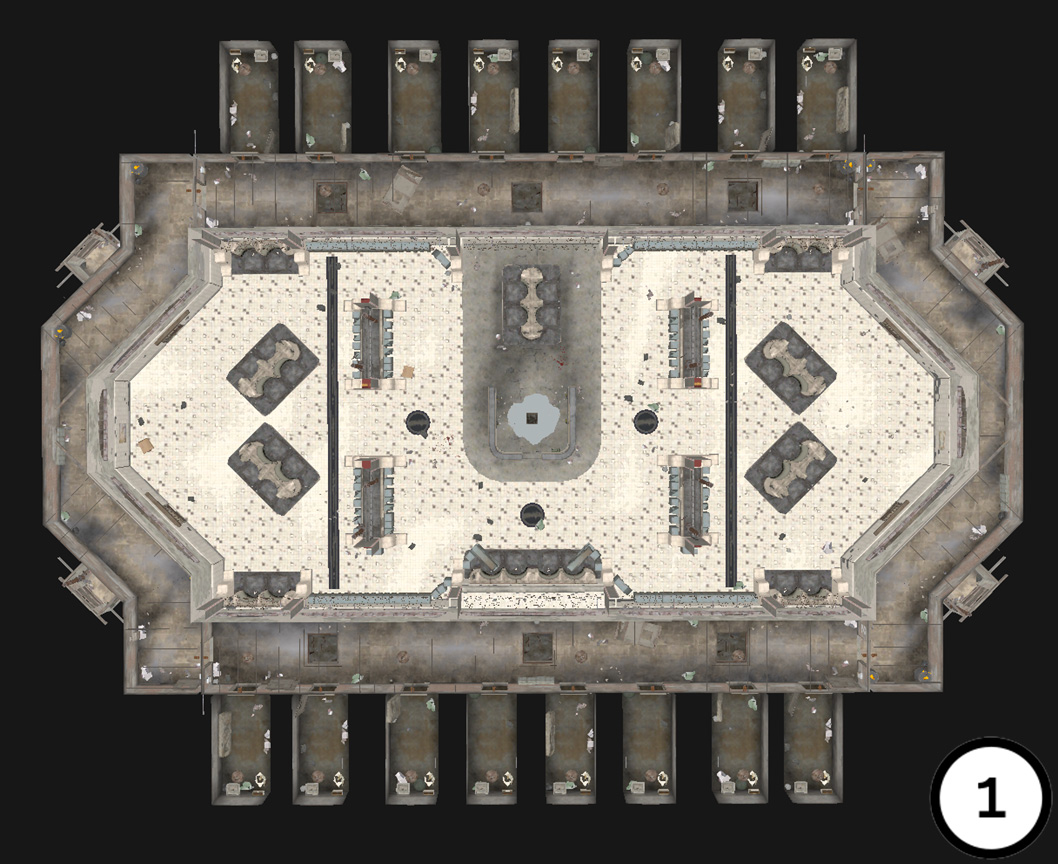
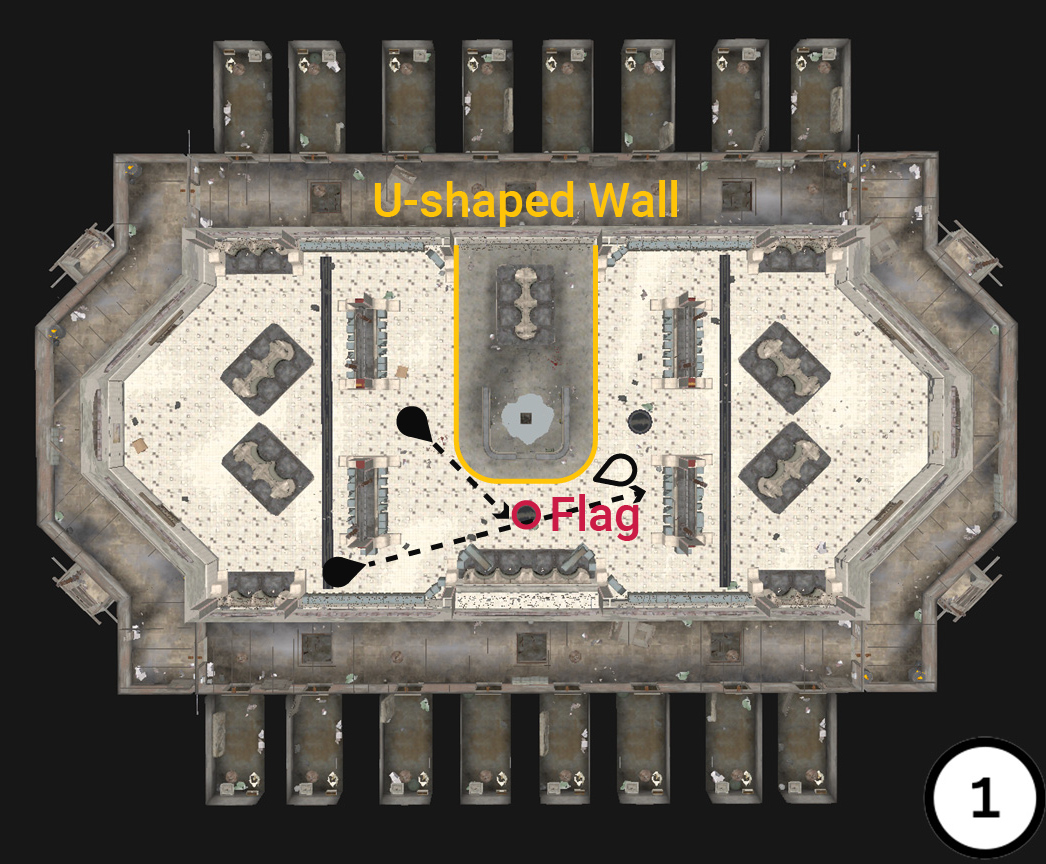
1.14 Minor Update
Updated the fps combat zone page.

diff --git a/levels/combat-zone.html b/levels/combat-zone.html
@@ -33,13 +33,12 @@
       <div class="top-title">FPS Combat Zone (WIP)</div>
       <div class="top-introduction">
         Designing an engaging multiplayer FPS combat experience has alway been a
-        very interesting topic to me. This page covers some of my thoughts and
-        experiments of designing small-scale (preferably 1v1 and 2v2)
-        multiplayer combat zones.
+        very interesting topic to me. This page covers the process of designing
+        both a symmetrical and an asymmetrical 1v1 FPS combat level.
       </div>
       <div class="top-information">
         <span style="color: var(--ro)">time</span> winter 2020 <br />
-        <span style="color: var(--ro)">length</span> 2 minutes <br />
+        <span style="color: var(--ro)">length</span> 1 minute <br />
         <span style="color: var(--ro)">software</span> Unreal Engine 4, Maya,
         Illustrator
         <br />
@@ -50,25 +49,25 @@
     <div id="main">
       <div class="main-title">Inspiration</div>
       <div class="main-description">
-        I was spending quite a bit time in my summer 2020 vacation watching some
-        top streamers on Twitch playing Call of Duty: Warzone (battle royale).
-        Among many interesting game mechanics, the desperate 1v1 gunfight in a
-        fictional gulag attracts me most for its dramatically fast-paced combat
-        and the cruel rule that only the winner can step back into the
-        battlefield again.
+        I was spending quite a bit time during my summer and winter 2020
+        vacations watching some top streamers on Twitch playing Call of Duty:
+        Warzone (battle royale). Among many interesting game mechanics, the
+        desperate 1v1 gunfight in a fictional gulag attracted me most for its
+        dramatically fast-paced combat and the cruel rule that only the winner
+        can step back into the battlefield again.
         <br />
       </div>
       <div class="main-design-title">
         <hr />
-        analysis
+        system analysis
       </div>
       <div class="main-design-description">
         <span class="element-title">what's gulag?</span><br />
         As a Battle Royale game, Call of Duty: Warzone is praised for its
-        fast-paced and Call-of-Duty-esque feeling of gunfight. A player is put
-        into the gulag if and only after they get killed in the game for the
-        first time, so gulag is a chance for everyone to push back to the main
-        game - if they manage to win there.<br /><br />
+        fast-paced and the consistent Call-of-Duty feeling. A player is put into
+        the gulag if and only after they get killed in the game for the first
+        time, and the gulag is a chance for them to push back to the main game -
+        if they manage to win their opponents.<br /><br />
         A one versus one fight is prepared for everyone in the gulag, and some
         special rules apply: the system will pick a gun (or not!) randomly for
         both sides, and/or some equipments such as flash grenades or C4. The
@@ -94,37 +93,69 @@
         In the gulag map, many factors work successfully together to make the
         gunfight fast and intense. I want to discuss how designers achieve their
         goals by looking into the 2d and 3d layout of the map.
-        <br /><span class="element-title">map: 2d</span><br />
-        According to the official guide, the 1v1 fight can take place randomly
-        at one of the following three maps.
+      </div>
+      <div class="main-design-title">
+        <hr />
+        level analysis
+      </div>
+      <div class="main-design-description">
+        <span class="element-title">symmetrical maps: 2d</span><br />
+        When Warzone was first released, according to the official guide, the
+        1v1 gunfight can take place randomly at one of the following three maps.
         <div class="element-image-flex">
           <img src="/media/levels/combat-zone/gulag-1.jpg" />
           <img src="/media/levels/combat-zone/gulag-2.jpg" />
           <img src="/media/levels/combat-zone/gulag-3.jpg" />
         </div>
+        The three maps do have different layouts.<br />
+        The first map has the walls on both left and right side of the u-shaped
+        wall offer a great cover when players are trying to engage in a
+        long-range gunfight. However, trying to capture the flag in this map
+        will be a bit scary since the flag is located totally in the open.
+        Crossing the middle lane would be a bold action.<br />
+        The second map features a circular stall in the middle which could be
+        used to cut down sightlines for a close-range combat. This map is also
+        if the player wants to play more defensively - the rectangular walls
+        offers covers for long-range gunfights.<br />
+        The third map offers the longest sightlines through a very narrow aisle
+        on top and bottom and the map, making it a great map for long-range
+        fights. On the other side, the blocks in the mioddle also provide the
+        close-range combat option if the players have shotguns.<br /><br />
         From 2d layouts we can find the three maps share some things in
         common:<br />
-        - <span class="bold">Rigidly axial symmetric layout.</span> It's
-        probably the most important thing in any competitive games that both
-        sides play fairly, and the most straightforward thing is make a
-        symmetrical map so they play under the same circumstances. <br />
-        -
+        <span class="bold">- Rigidly axial symmetric layouts.</span> The
+        Symmetric map layouts ensure that both sides are in a strictly equal
+        competitive environment, and the win or lose is really only depending on
+        individual skills. However, such maps may be a little bit short in terms
+        of tactical strategies, because both sides ideally will do the same
+        actions and it's really up to their shooting skills.<br />
         <span class="bold"
-          >Single-floor and small map with lots of obstacles blocking the
+          >- Single-floor, small map with lots of obstacles blocking the
           sight.</span
         >
-        From the purpose of gulag, we know that designers want this combat to be
-        quick and decisive, which pushes the map to be simple and understandable
-        as possible. But being simple does not means being easy: the players
-        should be put into a challenging enough environment where they need to
-        use everything they're provided to win.<br />
-        -
+        From the purpose of the Gulag, we know that designers want this combat
+        to be quick and decisive, which pushes the map to be simple and
+        understandable as possible. But being simple does not means being easy:
+        the players should be put into a challenging enough environment where
+        they need to use everything they're provided to win.<br />
         <span class="bold"
-          >A perimeter balcony above where idle prisoners can observe the
+          >- Option for both long-range and close-range combats. </span
+        >In the Gulag the players are given randomly the same
+        pistols/shotguns/rifles etc., and all three map layouts fit most
+        weapons. The blockouts have some long sightlines and at the same time
+        put the flag in the very middle of the map, making capturing the flag
+        probably the most dangerous thingto do there. The flags are more likely
+        to be used as baits if one side wants to trigger a close-range gunfight
+        and put the enemy in a relatively passive position. <br />
+        <span class="bold"
+          >- A perimeter balcony above where idle players can observe the
           ground. </span
         >No doubt this design gives advantage to the players who have teammates
-        in the jail, which is a really interesting design to keep them away from
-        boredom. <br /><span class="element-title">map: 3d</span><br />
+        in the same jail. It is a really interesting design to keep players from
+        the waiting boredom that allows some teamworking in an uncommon
+        situation. <br />
+
+        <span class="element-title">symmetrical maps: 3d</span><br />
         <div class="element-image">
           <img src="/media/levels/combat-zone/gulag-3d.jpg" />
         </div>
@@ -132,17 +163,49 @@
         most walls are so TALL that players cannot peek upwards, but have to
         peek left/right, which adds to the odds they get killed.<br />
         This design again forces the players to take higher risks in the fight,
-        by moving closer to the enemy or exposing a larger part of the body.<br /><br />
+        by moving closer to the enemy or exposing a larger part of the body.
+        <br /><span class="element-title">asymmetrical map</span>
+        <div class="element-image-flex">
+          <img src="/media/levels/combat-zone/gulag-4.jpg" />
+          <img src="/media/levels/combat-zone/gulag-5.png" />
+        </div>
+        On December 16th, As part of the Season One content from Black Ops Cold
+        War, the game introduced two new maps for the Gulag, including an
+        asymmetrically-designed map: Verdansk. This map is very interesting
+        because it broke the convention of symmetrical maps used for the Gulag,
+        and therefore, the gunfights will be a bit more tactical there. I drew
+        the 2d map above myself according to the 3d map.<br /><br />
+        Among all possibilities, there are three paths divided by a truck and an
+        empty container with holes, and the players spawn at the opposite
+        corners on the map. For the blue player, the natural strategy would be
+        going right along the container and peek through the holes, as that's a
+        safer way than to go to the other side of the truck, and the fact that
+        most right-handed players tend to go to the right side. For the red
+        player, again going all the way along the truck is dangerous and the
+        chances are high to meet the opponent in the middle way, which leads to
+        a 50-50 gunfight that's essentially on who aims better. However, peeking
+        through the holes is in a bit favor of the blue player who has just a
+        bit better sight than the red player. But the situation could be
+        different with a different weapon, i.e. having a shotgun, because then
+        the blue player could run earlier to the cover and shoot before the red
+        player kills them.<br /><br />
+        But at a larger sense, this map is still pretty balanced because of the
+        covers and spawn positions that are not favoring either side. After all,
+        in the Gulag in Warzone, every kill happens so fast that if one wants to
+        win, they must get their shots in. Having an asymmetrical map just adds
+        some fun to the both sides and sometimes people just like to blame on
+        objective things: "this map is in favor of my opponent and that's why I
+        lost!"
       </div>
 
-      <div class="main-title">1v1: Ideation</div>
+      <div class="main-title">Ideation</div>
       <div class="main-design-title">
         <hr />
-        mechanics
+        metrics
       </div>
       <div class="main-design-description">
         <div class="element-image">
-          <img src="/media/levels/combat-zone/mechanics.png" />
+          <img src="/media/levels/combat-zone/metrics.png" />
         </div>
       </div>
       <div class="main-design-title">
@@ -154,6 +217,8 @@
           <img src="/media/levels/combat-zone/ref.png" />
         </div>
       </div>
+
+      <div class="main-title">1v1: Symmetrical</div>
       <div class="main-design-title">
         <hr />
         2d map
@@ -162,14 +227,6 @@
         <div class="element-image">
           <img src="/media/levels/combat-zone/2d.png" />
         </div>
-      </div>
-
-      <div class="main-title">1v1: Production</div>
-      <div class="main-design-title">
-        <hr />
-        level design
-      </div>
-      <div class="main-design-description">
         Different from the stealth level, the environment in combat levels are
         wholly done inside of Unreal Engine, as I believe this could bring
         better flexibility for iterating purpose.
@@ -186,8 +243,12 @@
         playtesting
       </div>
 
-      <div class="main-title">2v2: Ideation</div>
+      <div class="main-title">1v1: Asymmetrical</div>
       <div class="main-design-description">
+        <div class="main-design-title">
+          <hr />
+          2d map
+        </div>
         2v2 map design will begin as soon as 1v1 is well finished, and more
         detail will release in the future!
       </div>

diff --git a/css/general.css b/css/general.css
@@ -117,7 +117,7 @@ body {
   user-select: none;
   position: fixed;
   right: 4vw;
-  top: 8vh;
+  top: 7vh;
   transform: translateX(-50%);
   font-size: 3rem;
   z-index: 2;
@@ -260,7 +260,7 @@ hr {
 
 .main-design-description {
   float: left;
-  padding-top: 2rem;
+  padding-top: 1.5rem;
   width: 61.8%;
 }
 
